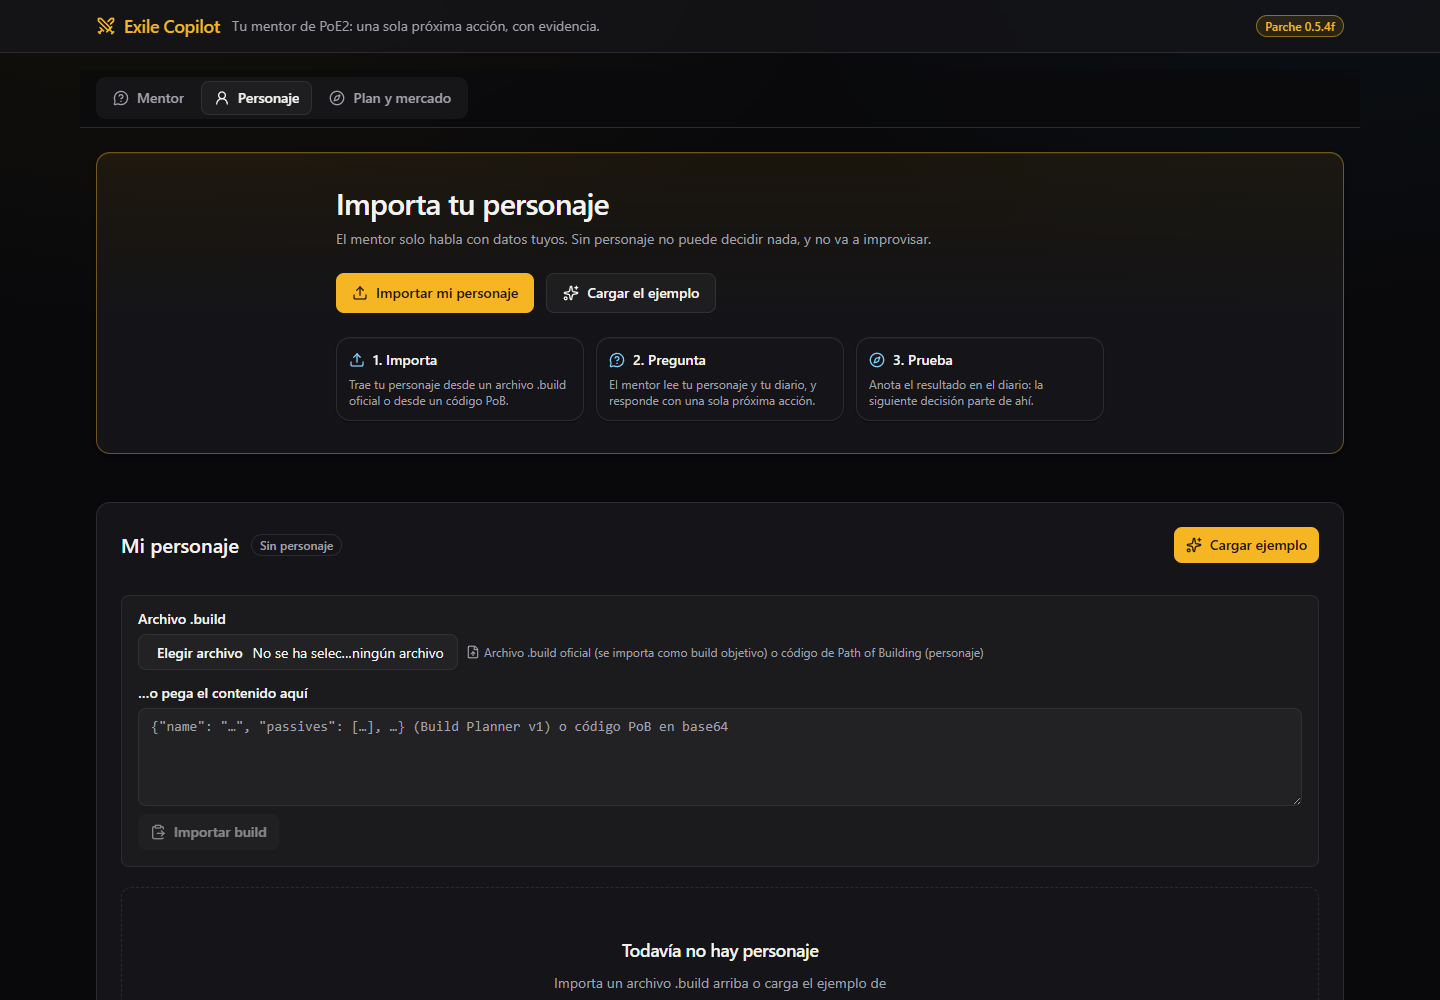
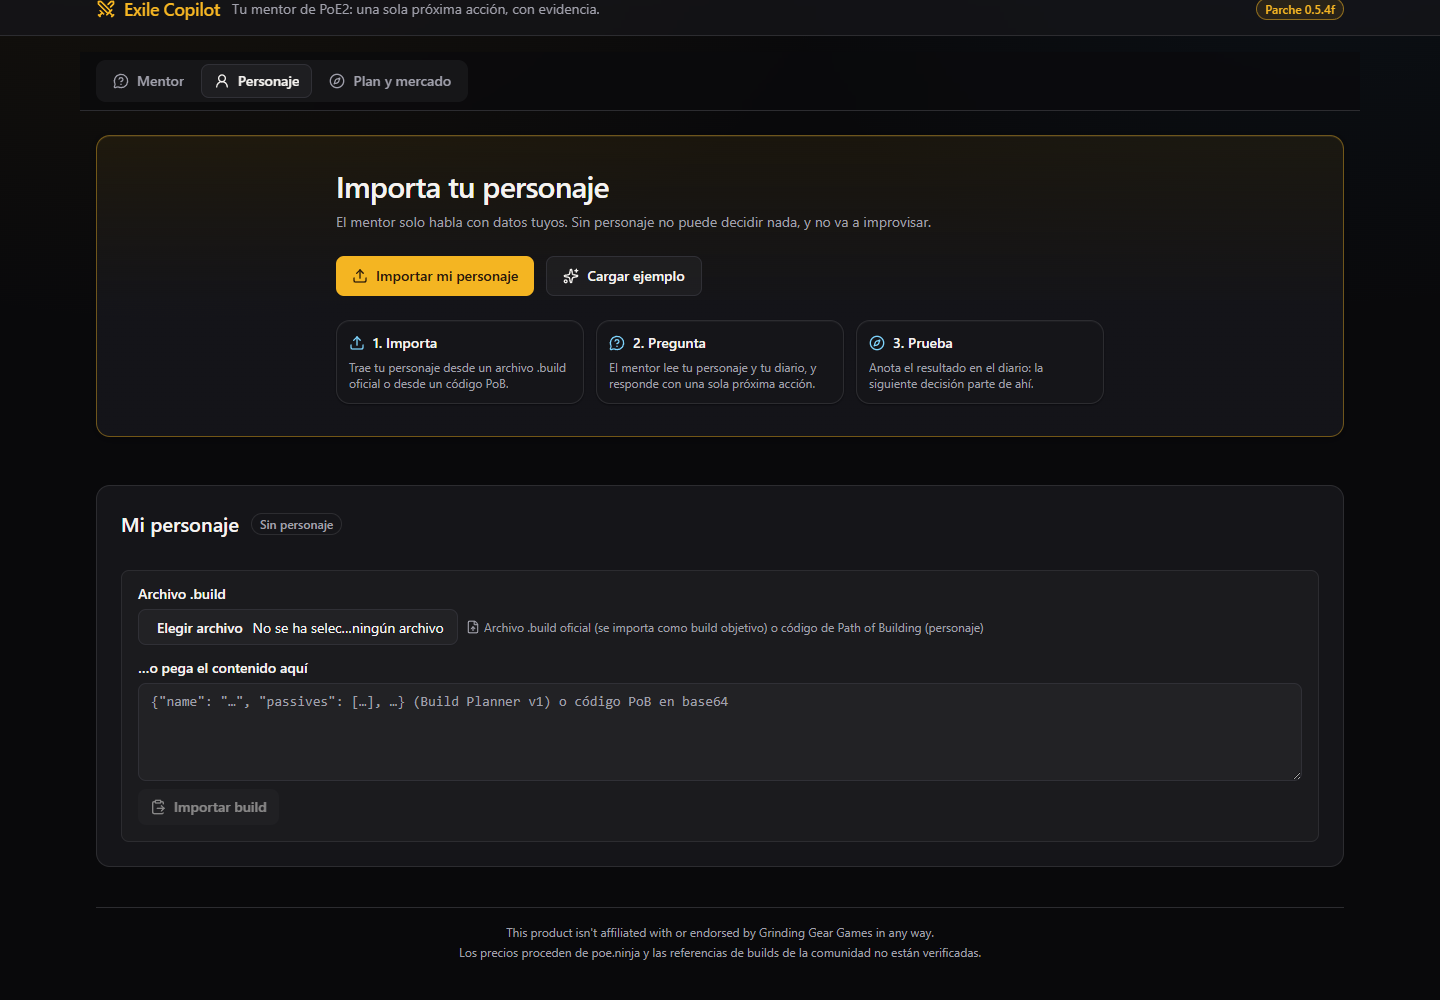
fix(ui): navegación objeto → recomendaciones entre áreas y bienvenida sin duplicados
Microcorrección sobre `755e0ac`, en el mismo worktree y rama. Sin cambios de
dominio ni integración en `main`.

## 1) Navegación objeto → recomendaciones

`CharacterSection.goToRecommendations()` hacía scroll directo a
`#seccion-recomendaciones`, que tras la reorganización vive en el área «Mentor»
y está oculta desde «Personaje»: el botón «Ver recomendaciones» no llevaba a
ninguna parte.

Ahora la navegación se reparte donde corresponde:

- `CharacterSection` solo PIDE la navegación (`onShowRecommendations`, callback
  del padre) y cierra el diálogo.
- `App` activa la pestaña «Mentor» y, cuando el panel ya es visible (efecto),
  desplaza `#seccion-recomendaciones` a la vista respetando
  `prefers-reduced-motion` (suave o inmediato).
- El FOCO lo pone el cierre del diálogo (`onCloseAutoFocus`), único momento en
  que Radix garantiza no pisarlo: nuevo paso 0 de la cascada documentada
  (`getCloseFocusTarget`). Con navegación, el foco va al contenedor de
  recomendaciones (`tabIndex={-1}`, patrón «skip link», `scroll-mt` para la
  barra pegajosa) y NUNCA al disparador del panel «Personaje» oculto. Un cierre
  normal sigue devolviendo el foco al disparador como antes.

Regresión completa en `scripts/equipment-smoke.mjs` (3 comprobaciones nuevas por
modo): Personaje → abrir objeto relacionado (hueco resaltado) → «Ver
recomendaciones» → área Mentor activa → sección visible y ENFOCADA
(activeElement === #seccion-recomendaciones) → el foco no queda dentro del panel
[…]

diff --git a/src/sections/CharacterSection.tsx b/src/sections/CharacterSection.tsx
@@ -8,7 +8,7 @@ import {
   Sparkles,
   Trash2,
 } from "lucide-react";
-import { useState as useReactState, type RefObject } from "react";
+import { useRef, useState as useReactState, type RefObject } from "react";
 import type { MetaResponse } from "@shared/api.js";
 import type {
   Attributes,
@@ -60,6 +60,19 @@ interface CharacterSectionProps {
    * paperdoll) o App (botón «Ver el objeto evaluado») para devolverle el foco.
    */
   dialogTriggerRef: RefObject<HTMLElement | null>;
+  /**
+   * Navegación objeto → recomendaciones. La sección NO sabe dónde vive la
+   * lista (hoy, en el área «Mentor», oculta desde aquí): pide al padre que la
+   * muestre y desplace. El foco lo pone el cierre del diálogo.
+   */
+  onShowRecommendations: () => void;
+  /**
+   * Presentación: true cuando OTRA superficie (la bienvenida) ya ofrece la
+   * importación y el ejemplo. Con ello esta sección no repite ni el vacío
+   * «Todavía no hay personaje» ni su botón «Cargar ejemplo». No cambia ninguna
+   * lógica de personaje: solo qué se pinta sin personaje.
+   */
+  hideEmptyState: boolean;
 }
 
 const RESISTANCE_FIELDS: { key: keyof Resistances; label: string }[] = [
@@ -121,6 +134,8 @@ export function CharacterSection({
   focusedItemId,
   onFocusHandled,
   dialogTriggerRef,
+  onShowRecommendations,
+  hideEmptyState,
 }: CharacterSectionProps) {
   const { profile, warnings, origin, busy, restoring, dirty } = character;
   const [itemText, setItemText] = useState("");
@@ -146,14 +161,13 @@ export function CharacterSection({
     (rec) => selectedItem !== null && rec.relatedItemIds.includes(selectedItem.id),
   );
 
+  // true mientras el diálogo se cierra por «Ver recomendaciones»: el cierre no
+  // debe devolver el foco al disparador (queda en este panel, ahora oculto).
+  const navigatingToRecommendations = useRef(false);
   const goToRecommendations = () => {
+    navigatingToRecommendations.current = true;
     closeDetail();
-    const target = document.getElementById("seccion-recomendaciones");
-    if (!target) return;
-    const reduced =
-      typeof window !== "undefined" &&
-      window.matchMedia("(prefers-reduced-motion: reduce)").matches;
-    target.scrollIntoView({ behavior: reduced ? "auto" : "smooth", block: "start" });
+    onShowRecommendations();
   };
 
   return (
@@ -193,18 +207,20 @@ export function CharacterSection({
                 Empezar de nuevo
               </Button>
             )}
-            <Button
-              type="button"
-              onClick={() => void character.loadDemo()}
-              disabled={busy !== null || restoring}
-            >
-              {busy === "demo" ? (
-                <Loader2 className="size-4 animate-spin" aria-hidden="true" />
-              ) : (
-                <Sparkles className="size-4" aria-hidden="true" />
-              )}
-              Cargar ejemplo
-            </Button>
+            {!hideEmptyState && (
+              <Button
+                type="button"
+                onClick={() => void character.loadDemo()}
+                disabled={busy !== null || restoring}
+              >
+                {busy === "demo" ? (
+                  <Loader2 className="size-4 animate-spin" aria-hidden="true" />
+                ) : (
+                  <Sparkles className="size-4" aria-hidden="true" />
+                )}
+                Cargar ejemplo
+              </Button>
+            )}
           </div>
         </div>
       </CardHeader>
@@ -236,25 +252,27 @@ export function CharacterSection({
             )}
           </div>
         ) : !profile ? (
-          <Empty className="border border-dashed border-border">
-            <EmptyHeader>
-              <EmptyTitle>Todavía no hay personaje</EmptyTitle>
-              <EmptyDescription>
-                Importa un archivo .build arriba o carga el ejemplo de Mercenario con
-                ballesta para explorar la aplicación.
-              </EmptyDescription>
-            </EmptyHeader>
-            <EmptyContent>
-              <Button
-                type="button"
-                onClick={() => void character.loadDemo()}
-                disabled={busy !== null}
-              >
-                <Sparkles className="size-4" aria-hidden="true" />
-                Cargar ejemplo
-              </Button>
-            </EmptyContent>
-          </Empty>
+          hideEmptyState ? null : (
+            <Empty className="border border-dashed border-border">
+              <EmptyHeader>
+                <EmptyTitle>Todavía no hay personaje</EmptyTitle>
+                <EmptyDescription>
+                  Importa un archivo .build arriba o carga el ejemplo de Mercenario con
+                  ballesta para explorar la aplicación.
+                </EmptyDescription>
+              </EmptyHeader>
+              <EmptyContent>
+                <Button
+                  type="button"
+                  onClick={() => void character.loadDemo()}
+                  disabled={busy !== null}
+                >
+                  <Sparkles className="size-4" aria-hidden="true" />
+                  Cargar ejemplo
+                </Button>
+              </EmptyContent>
+            </Empty>
+          )
         ) : (
           <>
             <EquipmentPanel
@@ -334,6 +352,13 @@ export function CharacterSection({
             if (!open) closeDetail();
           }}
           onGoToRecommendations={goToRecommendations}
+          getCloseFocusTarget={() => {
+            if (!navigatingToRecommendations.current) return null;
+            navigatingToRecommendations.current = false;
+            // El padre ya activó el área «Mentor»: el contenedor existe y es
+            // visible. Recibe el foco él, no el disparador oculto.
+            return document.getElementById("seccion-recomendaciones");
+          }}
         />
       </CardContent>
     </Card>

diff --git a/src/components/ItemDetailDialog.tsx b/src/components/ItemDetailDialog.tsx
@@ -53,6 +53,14 @@ interface ItemDetailDialogProps {
   onOpenChange: (open: boolean) => void;
   /** Navegación objeto → recomendación. */
   onGoToRecommendations: () => void;
+  /**
+   * Destino de foco ALTERNATIVO al cerrar, consultado antes que el disparador.
+   * Devuelve null en un cierre normal (el foco vuelve al disparador); devuelve
+   * un elemento cuando el cierre forma parte de una navegación que ocultó el
+   * panel del disparador (objeto → recomendaciones) y el foco no debe quedar
+   * dentro de un panel oculto.
+   */
+  getCloseFocusTarget?: () => HTMLElement | null;
 }
 
 export function ItemDetailDialog({
@@ -61,6 +69,7 @@ export function ItemDetailDialog({
   relatedRecommendations,
   onOpenChange,
   onGoToRecommendations,
+  getCloseFocusTarget,
 }: ItemDetailDialogProps) {
   // Accesibilidad del cierre: Radix devuelve el foco al elemento que abrió el
   // diálogo, pero necesita que el contenido siga montado mientras se cierra.
@@ -79,6 +88,7 @@ export function ItemDetailDialog({
           triggerRef={triggerRef}
           relatedRecommendations={relatedRecommendations}
           onGoToRecommendations={onGoToRecommendations}
+          getCloseFocusTarget={getCloseFocusTarget}
         />
       )}
     </Dialog>
@@ -90,11 +100,13 @@ function ItemDetailContent({
   triggerRef,
   relatedRecommendations,
   onGoToRecommendations,
+  getCloseFocusTarget,
 }: {
   item: Item;
   triggerRef: RefObject<HTMLElement | null>;
   relatedRecommendations: Recommendation[];
   onGoToRecommendations: () => void;
+  getCloseFocusTarget?: (() => HTMLElement | null) | undefined;
 }) {
   const rarity = rarityStyle(item.rarity);
   const dataState = describeItemDataState(item);
@@ -108,12 +120,23 @@ function ItemDetailContent({
       // (o al del objeto mostrado si se llegó desde una recomendación), en
       // lugar de quedar suelto en <body>.
       // Cascada documentada para devolver el foco al cerrar:
+      //  0) si el cierre forma parte de una navegación (objeto →
+      //     recomendaciones), el foco va al destino que declare
+      //     `getCloseFocusTarget`, nunca al disparador de un panel oculto;
       //  1) el elemento que ABRIÓ el diálogo (hueco del paperdoll o botón
       //     «Ver el objeto evaluado»), si sigue en el documento;
       //  2) si ya no existe, el hueco de ese objeto en el paperdoll;
       //  3) si tampoco existe, no se fuerza nada y Radix aplica su
       //     comportamiento por defecto.
       onCloseAutoFocus={(event) => {
+        const navTarget = getCloseFocusTarget?.() ?? null;
+        if (navTarget !== null) {
+          event.preventDefault();
+          // preventScroll: el desplazamiento (suave o inmediato según
+          // prefers-reduced-motion) ya lo hizo quien activó el área.
+          navTarget.focus({ preventScroll: true });
+          return;
+        }
         const trigger = triggerRef.current;
         if (trigger !== null && trigger.isConnected) {
           event.preventDefault();

diff --git a/src/App.tsx b/src/App.tsx
@@ -69,6 +69,9 @@ export default function App() {
   // Área visible. `null` solo mientras se decide la de entrada (ver más abajo).
   const [tab, setTab] = useState<WorkspaceTab | null>(null);
   const entryTabDecided = useRef(false);
+  // Navegación objeto → recomendaciones pendiente de completar (scroll) cuando
+  // el área «Mentor» ya esté visible.
+  const [recsNavPending, setRecsNavPending] = useState(false);
 
   // Un `.build` oficial importado es un PLAN: rellena la sección Build objetivo.
   const characterOptions = useMemo(
@@ -195,6 +198,27 @@ export default function App() {
     dialogTriggerRef.current = trigger;
     setFocusedItemId(itemId);
   };
+
+  /**
+   * Navegación inversa objeto → recomendaciones. La sección vive en el área
+   * «Mentor», que puede estar oculta: primero se activa la pestaña y, cuando el
+   * panel ya es visible (efecto de abajo), se desplaza. El FOCO no se pone
+   * aquí: lo pone el cierre del diálogo de objeto (`onCloseAutoFocus`), que es
+   * el único momento en que Radix garantiza no pisarlo; así nunca queda dentro
+   * del panel «Personaje» oculto.
+   */
+  const showRecommendationsArea = () => {
+    setTab("mentor");
+    setRecsNavPending(true);
+  };
+  useEffect(() => {
+    if (!recsNavPending || activeTab !== "mentor") return;
+    setRecsNavPending(false);
+    const target = document.getElementById("seccion-recomendaciones");
+    if (target === null) return;
+    const reduced = window.matchMedia("(prefers-reduced-motion: reduce)").matches;
+    target.scrollIntoView({ behavior: reduced ? "auto" : "smooth", block: "start" });
+  }, [recsNavPending, activeTab]);
 
   // La bienvenida sustituye a los paneles vacíos, pero no debe aparecer mientras
   // se restaura un personaje guardado (si no, parpadearía antes de cargarlo).
@@ -355,6 +379,10 @@ export default function App() {
               focusedItemId={focusedItemId}
               onFocusHandled={() => setFocusedItemId(null)}
               dialogTriggerRef={dialogTriggerRef}
+              onShowRecommendations={showRecommendationsArea}
+              // La bienvenida ya ofrece importar y cargar el ejemplo: la
+              // sección no repite ni su vacío ni su botón de ejemplo.
+              hideEmptyState={showWelcome}
             />
           </TabsContent>
 

diff --git a/src/sections/RecommendationsSection.tsx b/src/sections/RecommendationsSection.tsx
@@ -87,7 +87,9 @@ export function RecommendationsSection({
     setAppliedIds((prev) => ({ ...prev, [id]: applied }));
 
   return (
-    <Card id="seccion-recomendaciones">
+    // tabIndex={-1}: destino programático de la navegación objeto →
+    // recomendaciones (patrón «skip link»); no entra en el orden de tabulación.
+    <Card id="seccion-recomendaciones" tabIndex={-1} className="scroll-mt-16 outline-none">
       <CardHeader>
         <div className="flex flex-wrap items-center justify-between gap-3">
           <CardTitle className="text-xl">Próximas mejoras</CardTitle>

diff --git a/src/components/WelcomePanel.tsx b/src/components/WelcomePanel.tsx
@@ -69,7 +69,7 @@ export function WelcomePanel({ onGoToImport, onLoadDemo, loadingDemo }: WelcomeP
             ) : (
               <Sparkles className="size-4" aria-hidden="true" />
             )}
-            Cargar el ejemplo
+            Cargar ejemplo
           </Button>
         </div>
 
